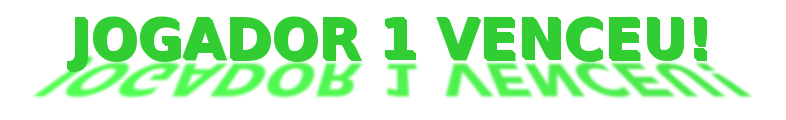
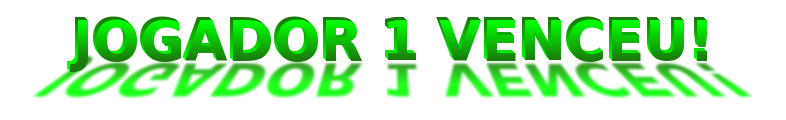
Trying Change win player scene.

Changed region(s): [[0.4885, 0.125, 0.9771, 0.825], [0.0305, 0.125, 0.458, 0.825]]

diff --git a/cocos2d/Pong1/win2.js b/cocos2d/Pong1/win2.js
@@ -1,0 +1,31 @@
+winLayer2 = cc.Layer.extend({
+	init:function()
+	{
+		this._super();
+		var playerWin = cc.Sprite.create("assets/playerWin2.png");
+		playerWin.setPosition(400, 300);
+		this.addChild(playerWin);
+		
+		var btBack = cc.Sprite.create("assets/btBack.png");
+		var back = cc.MenuItemSprite.create(btBack, null,null, 'btBack', this);
+		back.setPositionY(20);
+		
+        var menu = cc.Menu.create(back);
+        menu.setPosition(400,20);
+        this.addChild(menu);
+		
+		return this;
+	},
+	btBack:function(){
+    	cc.Director.getInstance().replaceScene(new menu());
+    }	
+});
+
+win2 = cc.Scene.extend({
+    onEnter:function(){
+        this._super();
+        var layer = new winLayer2();
+        layer.init();
+        this.addChild(layer);
+    }
+});

diff --git a/cocos2d/Pong1/game.js b/cocos2d/Pong1/game.js
@@ -112,9 +112,12 @@ gameLayer = cc.Layer.extend({
         		this.onKeyUp(cc.KEY.w);
         	}
     	}    	
-    	if(this.ponto1 >= 10 || this.ponto2 >= 10){
+    	if(this.ponto1 >= 10){
     		cc.Director.getInstance().replaceScene(cc.TransitionFade.create(0.5, new win()));
     	}
+		else if(this.ponto2 >= 10){
+    		cc.Director.getInstance().replaceScene(cc.TransitionFade.create(0.5, new win2()));
+    	}		
     },
     onKeyDown:function(key) {
         if(key == cc.KEY.up){
